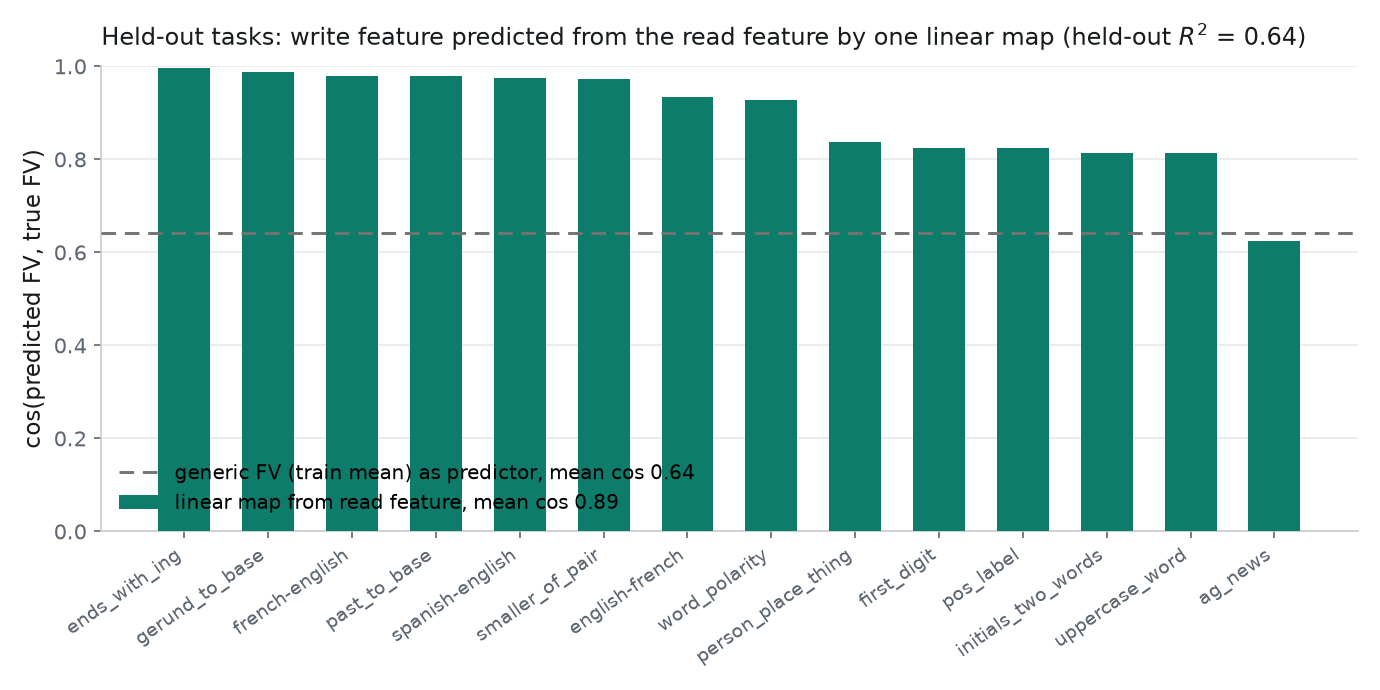
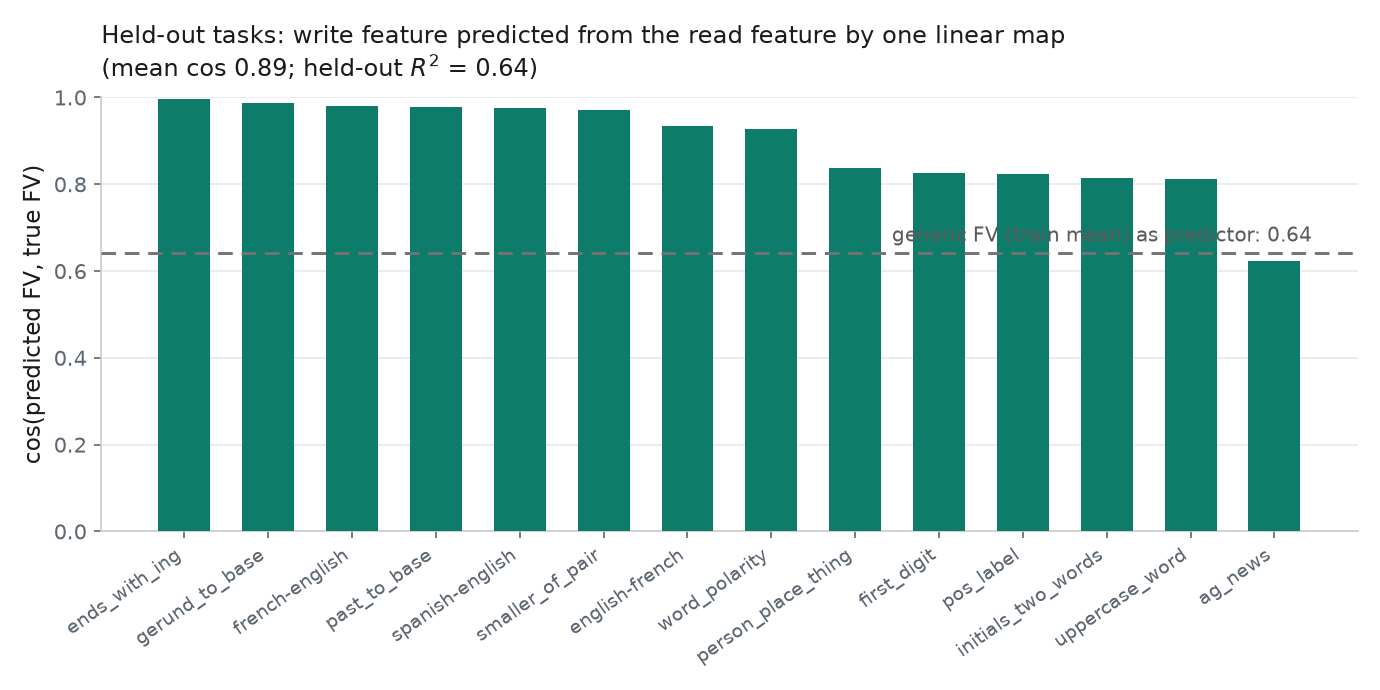
Claim 6 figure: no legend; baseline annotated on its line

diff --git a/src/eval_scripts/claim6_meanresid_map.py b/src/eval_scripts/claim6_meanresid_map.py
@@ -274,8 +274,10 @@ def main():
     ax.set_xticks(xs, [te_tasks[i] for i in ordr], rotation=35, ha="right", fontsize=9)
     ax.set_ylabel("cos(predicted FV, true FV)", fontsize=11, color=INK)
     ax.set_ylim(0, 1.0)
-    ax.legend(frameon=False, fontsize=9.5, loc="lower left")
-    ax.set_title(f"Held-out tasks: write feature predicted from the read feature by one linear map (held-out $R^2$ = {full_ridge_val:.2f})",
+    ax.text(xs[-1] + 0.45, cos_gen.mean() + 0.015, f"generic FV (train mean) as predictor: {cos_gen.mean():.2f}",
+            ha="right", va="bottom", fontsize=9.5, color="0.35")
+    ax.set_title(f"Held-out tasks: write feature predicted from the read feature by one linear map\n"
+                 f"(mean cos {cos_map.mean():.2f}; held-out $R^2$ = {full_ridge_val:.2f})",
                  loc="left", fontsize=11.5, color=INK, pad=10)
     fig.tight_layout(); fig.savefig(OUT / "linear_map_simple.png", facecolor="white"); plt.close(fig)
     print(f"linear map per held-out task: mean cos {cos_map.mean():.3f} (min {cos_map.min():.3f}) vs generic FV {cos_gen.mean():.3f}")
